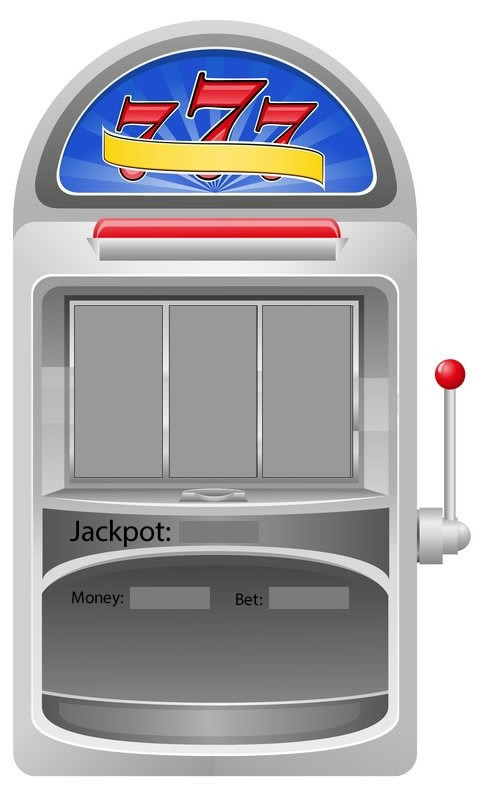
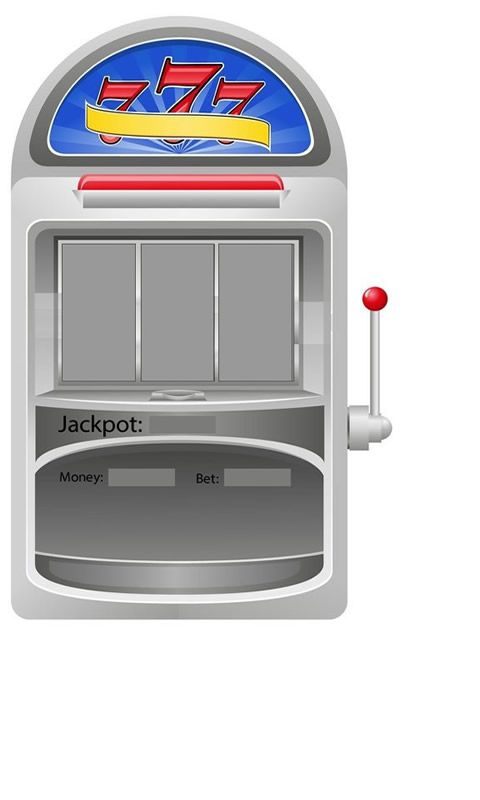
added images and resized canvas

diff --git a/COMP2068_Assignment2-slotmachine/Scripts/game.ts b/COMP2068_Assignment2-slotmachine/Scripts/game.ts
@@ -89,7 +89,7 @@ function spinReels() {
         if (turn > 0) {
             game.removeChild(tiles[tile]);
         }
-        tiles[tile] = new createjs.Bitmap("assets/images/" + spinResult[tile] + ".png");
+        tiles[tile] = new createjs.Bitmap("assets/images/" + spinResult[tile] + ".jpg");
         tiles[tile].x = 59 + (105 * tile);
         tiles[tile].y = 188;
         
@@ -226,23 +226,23 @@ function createUI():void {
 
     // Spin Button
     spinButton = new createjs.Bitmap("assets/images/spinButton.jpg");
-    spinButton.x = 315;
-    spinButton.y = 636;
+    spinButton.x = 265;
+    spinButton.y = 497;
     game.addChild(spinButton);
 
     resetButton = new createjs.Bitmap("assets/images/resetButton.jpg");
-    resetButton.x = 60;
-    resetButton.y = 639;
+    resetButton.x = 46;
+    resetButton.y = 497;
     game.addChild(resetButton);
 
     betOneButton = new createjs.Bitmap("assets/images/betOneButton.jpg");
-    betOneButton.x = 138;
-    betOneButton.y = 638;
+    betOneButton.x = 120;
+    betOneButton.y = 497;
     game.addChild(betOneButton);
 
     betMaxButton = new createjs.Bitmap("assets/images/betMaxButton.jpg");
-    betMaxButton.x = 233;
-    betMaxButton.y = 638;
+    betMaxButton.x = 190;
+    betMaxButton.y = 497;
     game.addChild(betMaxButton);
 
     spinButton.addEventListener("click", spinReels);

diff --git a/COMP2068_Assignment2-slotmachine/Scripts/game.js b/COMP2068_Assignment2-slotmachine/Scripts/game.js
@@ -79,7 +79,7 @@ function spinReels() {
         if (turn > 0) {
             game.removeChild(tiles[tile]);
         }
-        tiles[tile] = new createjs.Bitmap("assets/images/" + spinResult[tile] + ".png");
+        tiles[tile] = new createjs.Bitmap("assets/images/" + spinResult[tile] + ".jpg");
         tiles[tile].x = 59 + (105 * tile);
         tiles[tile].y = 188;
 
@@ -196,23 +196,23 @@ function createUI() {
 
     // Spin Button
     spinButton = new createjs.Bitmap("assets/images/spinButton.jpg");
-    spinButton.x = 315;
-    spinButton.y = 636;
+    spinButton.x = 265;
+    spinButton.y = 497;
     game.addChild(spinButton);
 
     resetButton = new createjs.Bitmap("assets/images/resetButton.jpg");
-    resetButton.x = 60;
-    resetButton.y = 639;
+    resetButton.x = 46;
+    resetButton.y = 497;
     game.addChild(resetButton);
 
     betOneButton = new createjs.Bitmap("assets/images/betOneButton.jpg");
-    betOneButton.x = 138;
-    betOneButton.y = 638;
+    betOneButton.x = 120;
+    betOneButton.y = 497;
     game.addChild(betOneButton);
 
     betMaxButton = new createjs.Bitmap("assets/images/betMaxButton.jpg");
-    betMaxButton.x = 233;
-    betMaxButton.y = 638;
+    betMaxButton.x = 190;
+    betMaxButton.y = 497;
     game.addChild(betMaxButton);
 
     spinButton.addEventListener("click", spinReels);

diff --git a/COMP2068_Assignment2-slotmachine/index.html b/COMP2068_Assignment2-slotmachine/index.html
@@ -8,7 +8,7 @@
 </head>
 <body onload="init();">
         
-        <canvas id="canvas" width="490" height="800"></canvas>
+        <canvas id="canvas" width="450" height="640"></canvas>
 
         <!-- JavaScript -->
         <script src="Scripts/lib/easeljs-0.8.0.min.js"></script>
